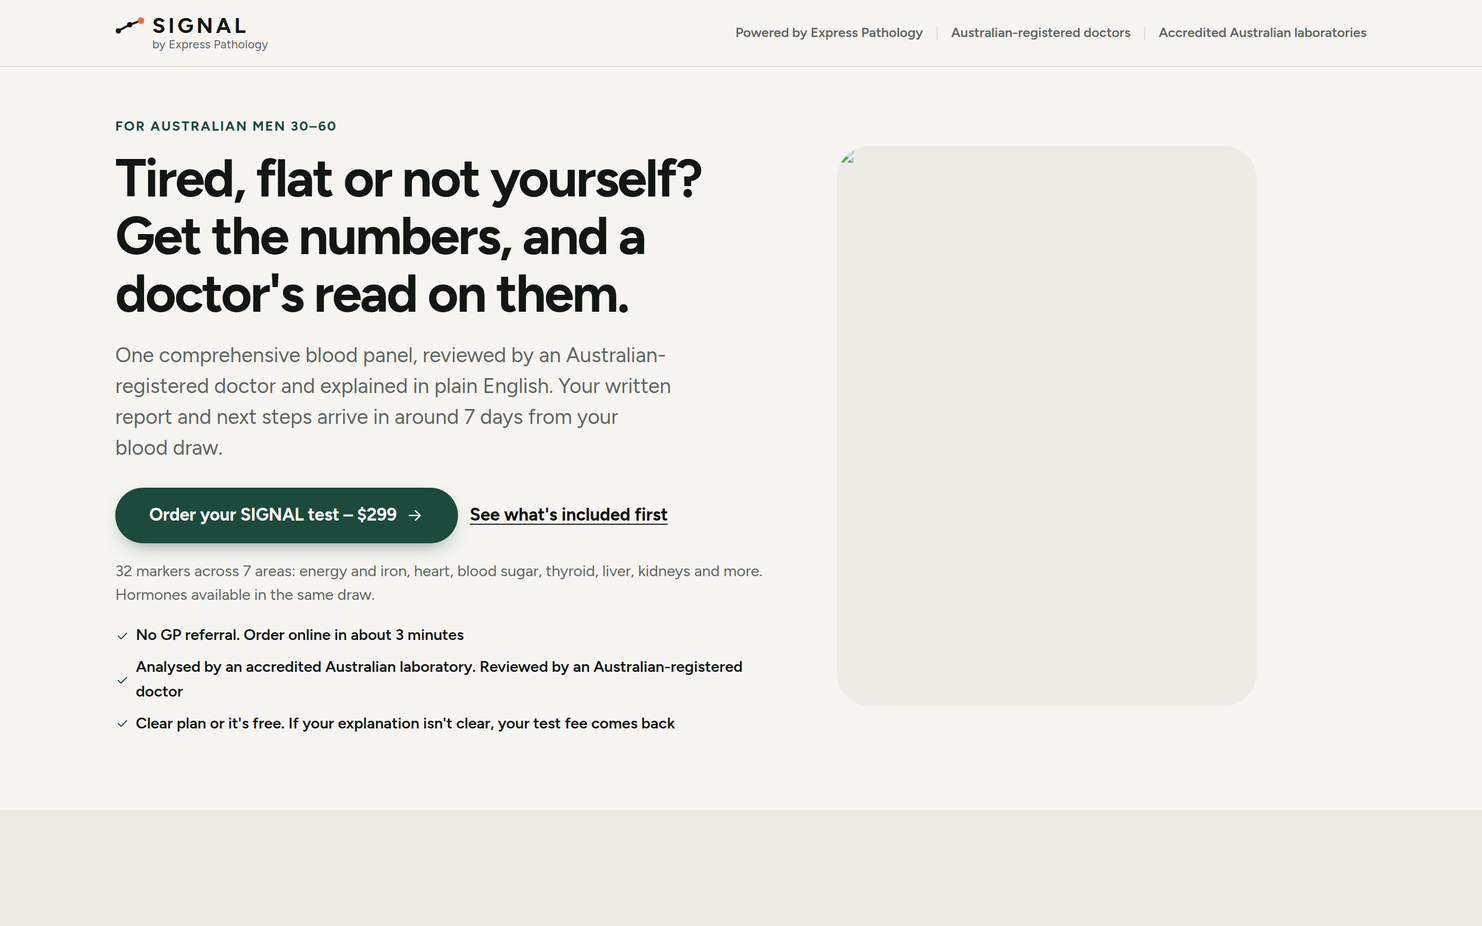
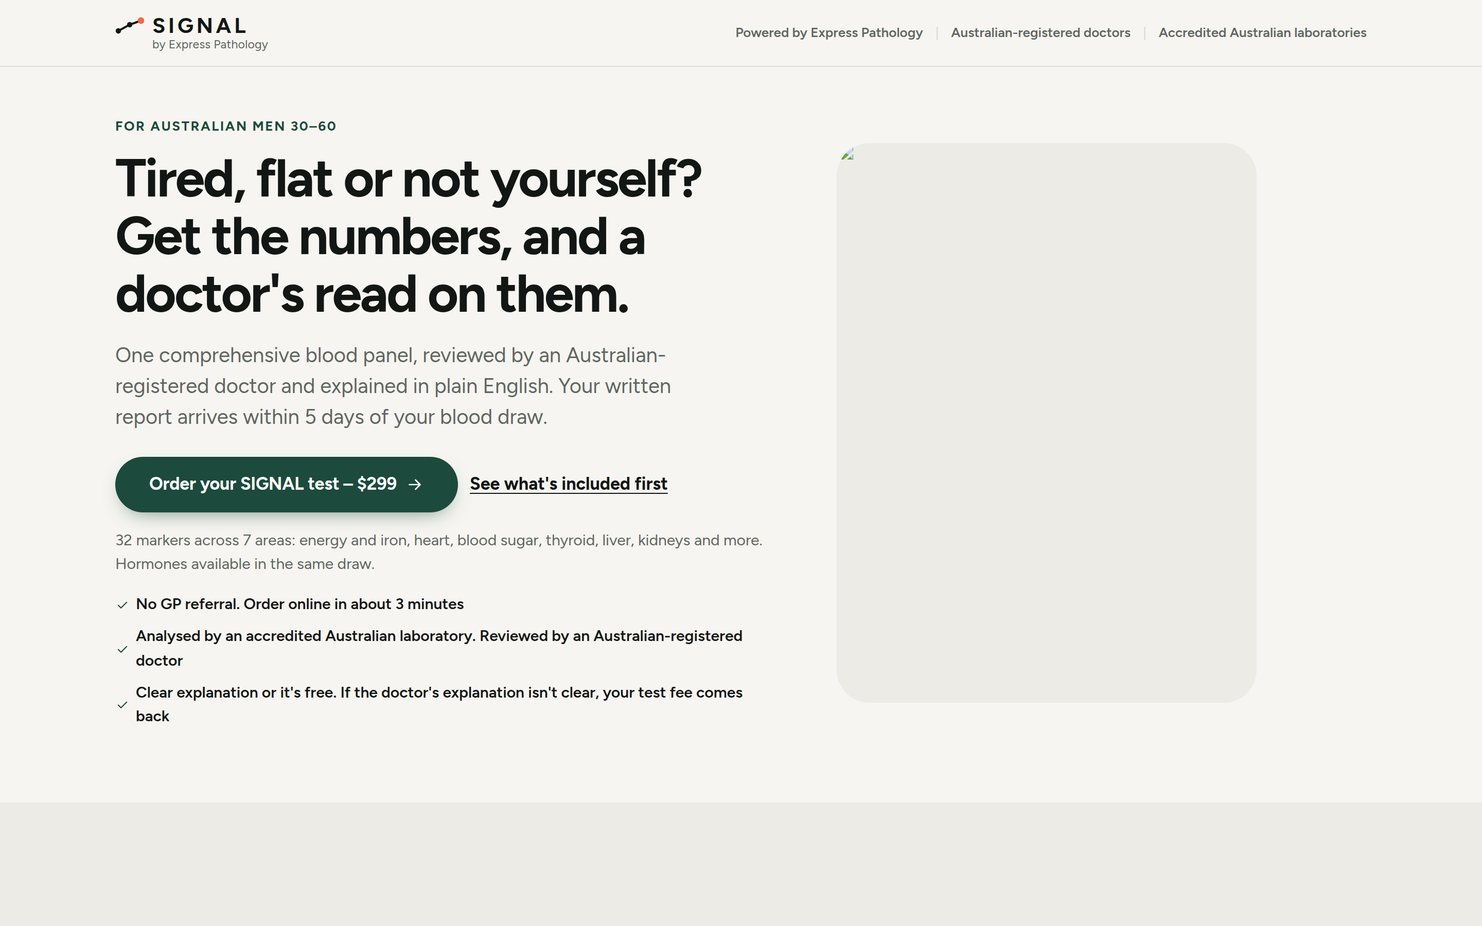
Promise only what is delivered: a clear written explanation, within 5 days
The doctor's review produces a written explanation of the results, not a
plan or next steps, and reports go out within 5 days of collection, not
around 7. Every customer-facing line now says exactly that: /men hero,
what-you-get, steps, plans, guarantee and FAQ; the illustrative report
caption; the journey timing; the trust bar; the confirmation email; the
terms (service description, turnaround, guarantee clause). The guarantee
is now "Clear Explanation or It's Free" and states that it concerns the
clarity of the explanation only, not health, results or treatment.

Claude-Session: https://claude.ai/code/session_01CjgrVakohwrtTz92CBzn2N

Changed region(s): [[0.0625, 0.4356, 0.5, 0.8089]]

diff --git a/src/config/funnel/men.ts b/src/config/funnel/men.ts
@@ -39,7 +39,7 @@ export interface PlanCard {
 
 export const menFunnel = {
   slug: "men",
-  seo: { title: "A doctor-reviewed blood panel for men, explained in plain English | SIGNAL", description: "One visit, one comprehensive panel, reviewed by an Australian-registered doctor with a plain-English report and next steps in around 7 days. {price}, no GP referral." },
+  seo: { title: "A doctor-reviewed blood panel for men, explained in plain English | SIGNAL", description: "One visit, one comprehensive panel, reviewed by an Australian-registered doctor with a plain-English report within 5 days. {price}, no GP referral." },
 
   // 1. Above the fold
   trustStrip: [
@@ -50,25 +50,25 @@ export const menFunnel = {
   hero: {
     eyebrow: "For Australian men 30–60",
     headline: "Tired, flat or not yourself? Get the numbers, and a doctor's read on them.",
-    subheadline: "One comprehensive blood panel, reviewed by an Australian-registered doctor and explained in plain English. Your written report and next steps arrive in around 7 days from your blood draw.",
+    subheadline: "One comprehensive blood panel, reviewed by an Australian-registered doctor and explained in plain English. Your written report arrives within 5 days of your blood draw.",
     supporting: "{markers} markers across {buckets} areas: energy and iron, heart, blood sugar, thyroid, liver, kidneys and more. Hormones available in the same draw.",
     primaryCta: { label: "Order your SIGNAL test – {price}", href: "/checkout" },
     secondaryCta: { label: "See what's included first", href: "#panel" },
     miniTrust: [
       { text: "No GP referral. Order online in about 3 minutes", verified: true },
       { text: "Analysed by an accredited Australian laboratory. Reviewed by an Australian-registered doctor", verified: true },
-      { text: "Clear plan or it's free. If your explanation isn't clear, your test fee comes back", verified: true },
+      { text: "Clear explanation or it's free. If the doctor's explanation isn't clear, your test fee comes back", verified: true },
     ] as Claim[],
   },
 
   // 2. What you get
   included: {
     title: "What you actually get for {price}",
-    intro: "Not a printout of numbers. A proper panel, a doctor's eyes on it, and a written plan you can act on.",
+    intro: "Not a printout of numbers. A proper panel, a doctor's eyes on it, and a written explanation you can actually understand.",
     bullets: [
       { title: "One comprehensive blood panel", body: "{markers} markers covering energy and iron, heart and cholesterol, blood sugar, thyroid, liver and kidneys, electrolytes and minerals, and inflammation. Every marker is listed before you pay." },
       { title: "A doctor reviews the whole picture", body: "An Australian-registered doctor reads your results together, looking for patterns across markers, not just whether each number sits in a range." },
-      { title: "A written summary and next steps, in plain English", body: "What's in the expected range, what isn't, and what to do about it. If something needs follow-up with your GP or a specialist, the report says so. It's sent to you as a secure link and kept on file so your doctor can compare it next time." },
+      { title: "A written explanation, in plain English", body: "What's in the expected range, what isn't, and what each marker means for you. If something warrants follow-up with your GP or a specialist, the report says so. It's sent to you as a secure link and kept on file so your doctor can compare it next time." },
       { title: "Add depth in the same draw", body: "Hormones and drive, thyroid in depth, heart in depth, key nutrients, or training and recovery. From {addonsFrom}. One needle, no second visit." },
       { title: "Collection that fits around you", body: "Walk into any partner collection centre, no appointment needed. Or a mobile nurse at home or work where available, {homeVisit}." },
     ],
@@ -104,7 +104,7 @@ export const menFunnel = {
       { icon: "calendar", title: "Order online", body: "Pick your panel and any add-ons, pay securely. About 3 minutes." },
       { icon: "tube", title: "Get your blood drawn", body: "Take your request form and photo ID to any partner collection centre, or have a mobile nurse come to you where available. No referral paperwork." },
       { icon: "shield", title: "A doctor reviews your results", body: "An Australian-registered doctor checks the full picture for patterns and anything that needs attention." },
-      { icon: "chart", title: "Get your report and next steps", body: "Your results, the doctor's summary and a written plan, emailed as a secure link in around 7 days." },
+      { icon: "chart", title: "Get your report", body: "Your results and the doctor's written explanation, emailed as a secure link within 5 days." },
     ] as { icon: "calendar" | "tube" | "shield" | "chart"; title: string; body: string }[],
   },
 
@@ -115,7 +115,7 @@ export const menFunnel = {
     bestFor: [
       "Men 30–60 who feel tired, flat, low on drive or “not themselves”",
       "Men who want proper pathology numbers and a doctor's explanation, not guesswork from social media",
-      "Men happy to pay privately for clarity and a plan",
+      "Men happy to pay privately for clarity",
       "Men who'd rather know than wonder",
     ],
     notForTitle: "Not for",
@@ -145,7 +145,7 @@ export const menFunnel = {
   // 6. Pricing and options
   plans: {
     title: "Choose how you want to track your health",
-    intro: "Every option includes the full panel, the doctor's review and the written plan. You pay per test. No lock-ins.",
+    intro: "Every option includes the full panel, the doctor's review and the written explanation. You pay per test. No lock-ins.",
     cards: [
       {
         id: "one_time",
@@ -154,7 +154,7 @@ export const menFunnel = {
         priceSub: "one payment",
         tagline: "Ideal if you've never had a proper check.",
         bullets: [
-          { text: "Full panel, doctor review and written plan", verified: true },
+          { text: "Full panel, doctor review and written explanation", verified: true },
           { text: "Collection at a centre included", verified: true },
           { text: "Add-ons from {addonsFrom}", verified: true },
         ],
@@ -193,7 +193,7 @@ export const menFunnel = {
     ] as PlanCard[],
     compare: {
       rows: [
-        { label: "Panel + doctor review + written plan", values: ["Included", "Included", "Included"] },
+        { label: "Panel + doctor review + written explanation", values: ["Included", "Included", "Included"] },
         { label: "Charged per test, no lock-in", values: ["✓", "✓", "✓"] },
         { label: "Tests per year", values: ["1", "2", "4"] },
         { label: "Per-test price", values: ["{price}", "{track6Price}", "{track3Price}"] },
@@ -222,9 +222,9 @@ export const menFunnel = {
       ],
     },
     guarantee: {
-      title: "Clear Plan or It's Free",
-      body: "If you complete your blood draw and doctor review and feel you did not get either a clear explanation of your results, or specific next steps you can discuss with a doctor, email us within 7 days of receiving your report and we'll refund your {price} test fee in full.",
-      terms: "This guarantee is about the clarity of what you receive, not a promise about your health. One claim per order. Terms apply.",
+      title: "Clear Explanation or It's Free",
+      body: "Complete your blood draw and doctor review. If you feel the doctor's written explanation of your results was not clear, email us within 7 days of receiving your report and we'll refund your {price} test fee in full.",
+      terms: "This guarantee is about the clarity of the explanation only. It is not a promise about your health, your results or any treatment. One claim per order. Terms apply.",
       verified: true,
     },
   },
@@ -235,9 +235,9 @@ export const menFunnel = {
     items: [
       { q: "Do I need a GP referral?", a: "No. SIGNAL is a private service you order directly. We arrange the pathology request." },
       { q: "Is this covered by Medicare or private health?", a: "No. It isn't billed to Medicare, and most health funds don't cover it. You pay for it yourself, and the price you see is the price you pay." },
-      { q: "What happens if my results are abnormal?", a: "Your report highlights anything outside the expected range and says what to do next. That may mean seeing your GP or a specialist. If something needs prompt attention, we contact you directly." },
+      { q: "What happens if my results are abnormal?", a: "Your report highlights anything outside the expected range and explains what that marker means. Where follow-up with your GP or a specialist is warranted, the report says so. If something needs prompt attention, we contact you directly." },
       { q: "Will I definitely get medication?", a: "No. SIGNAL is a testing, review and planning service. We never promise medication. Any treatment is only considered separately, by a doctor, and only if it's clinically appropriate." },
-      { q: "How long from blood draw to results?", a: "Around 7 days. We email you the moment your report and the doctor's review are ready." },
+      { q: "How long from blood draw to results?", a: "Within 5 days. We email you the moment your report and the doctor's review are ready." },
       { q: "Where do I go for my blood draw?", a: "Any partner collection centre near you, no appointment needed. Bring your request form and photo ID. In some areas a mobile nurse can come to your home or work for {homeVisit}." },
       { q: "Is this a replacement for my GP?", a: "No. SIGNAL gives you proper numbers and a doctor's explanation to act on. Your GP is still your GP, and your report is written so you can take it to them." },
       { q: "Is this suitable for women?", a: "Yes. The SIGNAL Test is the same comprehensive panel for everyone, and the Hormones+ add-on covers markers relevant to women as well as men. This page is written for men because that's who we're starting with." },
@@ -247,7 +247,7 @@ export const menFunnel = {
   // 9. Close
   close: {
     headline: "Ready to stop guessing and see what's really going on?",
-    sub: "Order your SIGNAL test today. Your doctor-reviewed report and next steps arrive in around 7 days.",
+    sub: "Order your SIGNAL test today. Your doctor-reviewed report arrives within 5 days of your blood draw.",
     cta: { label: "Order your SIGNAL test – {price}", href: "/checkout" },
   },
 };

diff --git a/src/config/legal/terms.ts b/src/config/legal/terms.ts
@@ -19,7 +19,7 @@ export const terms: LegalDocument = {
   intro: `These terms govern your purchase and use of the SIGNAL Test and related services from ${e.legalName} (ABN ${e.abn}), trading as ${e.tradingName} ("we", "us"). By placing an order you agree to them. Please read them with our Privacy Policy and, if you choose Automatic Retesting, the Retesting Terms.`,
   sections: [
     { id: "service", title: "1. What SIGNAL is", body: [
-      "SIGNAL is a self-requested pathology testing service. When you order, we arrange a pathology request for the markers in your chosen configuration, your sample is collected at a partner collection centre or by a mobile collector, it is analysed by an accredited Australian pathology laboratory, and your results are reviewed by an Australian-registered medical practitioner who prepares a plain-English report and a written plan for what to do next.",
+      "SIGNAL is a self-requested pathology testing service. When you order, we arrange a pathology request for the markers in your chosen configuration, your sample is collected at a partner collection centre or by a mobile collector, it is analysed by an accredited Australian pathology laboratory, and your results are reviewed by an Australian-registered medical practitioner who prepares a plain-English written explanation of your results.",
       "SIGNAL is not a substitute for your general practitioner or for emergency care. It does not diagnose or treat any condition, and a report is not a consultation or a prescription. If you are unwell, or if your report says a result needs prompt attention, see a doctor. In an emergency call 000.",
     ]},
     { id: "eligibility", title: "2. Who can order", body: [
@@ -35,7 +35,7 @@ export const terms: LegalDocument = {
       "Please bring photo ID. Follow any preparation instructions in your booking (for example fasting). If you miss a booking or cancel with less than the notice stated in your booking confirmation, a rebooking fee may apply as stated there.",
     ]},
     { id: "results", title: "5. Results, review and timing", body: [
-      "Most results and the doctor's review are sent to your email address as a secure link within around 7 days of collection. Occasionally a laboratory needs longer or must recollect a sample; we will tell you if that happens and there is no extra charge for a recollection the laboratory requests.",
+      "Most results and the doctor's review are sent to your email address as a secure link within 5 days of collection. Occasionally a laboratory needs longer or must recollect a sample; we will tell you if that happens and there is no extra charge for a recollection the laboratory requests.",
       "A laboratory result is a measurement at a point in time. Reference ranges are population-based and a result outside a range does not by itself mean something is wrong, nor does a result within a range guarantee that nothing is. The reviewing doctor's report is general guidance based on your results and the information you supplied; it is not a diagnosis and does not establish an ongoing treating relationship.",
       "If a result requires urgent attention we will contact you using the details on your order. Keep them current.",
     ]},
@@ -43,8 +43,8 @@ export const terms: LegalDocument = {
       "You may cancel for a full refund at any time before your blood is collected by emailing us. After collection the laboratory work has begun and the order can no longer be cancelled, except under the guarantee below or your rights under the Australian Consumer Law.",
       "Add-ons can be added or removed before payment. To change add-ons after payment but before collection, email us and we will adjust the order and the amount paid.",
     ]},
-    { id: "guarantee", title: "7. Clear Plan or It's Free guarantee", body: [
-      `If, after your blood draw and the doctor's review, you feel you did not receive a clear explanation of your results or a clear plan for what to do next, email ${e.supportEmail} within 7 days of your report being released and we will refund the ${price} test fee in full. The guarantee covers the SIGNAL Test fee; add-ons and collection fees are refunded if you cancel before collection under section 6. One claim per order. This guarantee is in addition to, and does not limit, your rights under the Australian Consumer Law.`,
+    { id: "guarantee", title: "7. Clear Explanation or It's Free guarantee", body: [
+      `If, after your blood draw and the doctor's review, you feel the written explanation of your results was not clear, email ${e.supportEmail} within 7 days of your report being released and we will refund the ${price} test fee in full. The guarantee covers the SIGNAL Test fee; add-ons and collection fees are refunded if you cancel before collection under section 6. One claim per order. The guarantee concerns the clarity of the explanation only; it is not a promise about your health, your results or any treatment. This guarantee is in addition to, and does not limit, your rights under the Australian Consumer Law.`,
     ]},
     { id: "retesting", title: "8. Automatic Retesting", body: [
       `Automatic Retesting is optional and is offered after your first purchase. It uses recurring billing. If you choose it, the Retesting Terms apply in addition to these terms, including the refund of the plan discount against your first order, the recurring charge for each future test, the reminder we send ${postPurchaseOffer.reminderDaysBefore} days before each charge, and your right to change, pause or cancel at any time.`,

diff --git a/src/config/journey.ts b/src/config/journey.ts
@@ -18,7 +18,7 @@ export const journey: JourneyStep[] = [
   { id: "pay", title: "Choose and pay", body: "Pick your SIGNAL and any add-ons. Pay by card, Apple Pay or Google Pay. No account needed first.", timing: "Today", timingStatus: "verified" },
   { id: "book", title: "Get your request form", body: "It's emailed to you straight away. Take it to any participating collection centre, no appointment needed. If you chose a home or workplace visit, we call you to arrange a time.", timing: "Straight after payment", timingStatus: "verified" },
   { id: "collect", title: "Get collected", body: "Bring photo ID and your request form. A qualified collector takes one sample. A few minutes, then get on with your day.", timing: "At your chosen time", timingStatus: "verified" },
-  { id: "results", title: "Results by email", body: "Reviewed by a doctor before you see them, every marker explained in plain language, sent as a secure link.", timing: "Around 7 days after collection", timingStatus: "verified" },
+  { id: "results", title: "Results by email", body: "Reviewed by a doctor before you see them, every marker explained in plain language, sent as a secure link.", timing: "Within 5 days of collection", timingStatus: "verified" },
   { id: "retest", title: "Retest and track", body: "Book a retest any time, or set up Automatic Retesting and watch what changes.", timing: "When you're ready", timingStatus: "verified" },
 ];
 

diff --git a/tests/email.test.ts b/tests/email.test.ts
@@ -7,7 +7,7 @@ const base = { reference: "SIG-TEST0001", orderId: "pi_x", orderUrl: "https://si
 test("centre confirmation: walk-in instructions, form attached, no booking promise", () => {
   const m = orderConfirmationEmail({ ...base, collectionMethodId: "centre" });
   assert.match(m.subject, /request form is attached/);
-  for (const s of ["Find a collection centre", "https://signaltest.com.au/collect", "4Cyte Pathology", "Australian Clinical Labs", "Any other laboratory will not accept your form", "Fast for 10 to 12 hours", "photo ID", "already paid for", "Around 7 days", "02 9545 2940", "SIG-TEST0001", "$299", "Automatic Retesting"]) assert.ok(m.text.includes(s) && m.html.includes(s.replace(/'/g, "&#39;").split("'")[0]!), s);
+  for (const s of ["Find a collection centre", "https://signaltest.com.au/collect", "4Cyte Pathology", "Australian Clinical Labs", "Any other laboratory will not accept your form", "Fast for 10 to 12 hours", "photo ID", "already paid for", "Within 5 days", "02 9545 2940", "SIG-TEST0001", "$299", "Automatic Retesting"]) assert.ok(m.text.includes(s) && m.html.includes(s.replace(/'/g, "&#39;").split("'")[0]!), s);
   for (const banned of ["booking link", "dashboard", "We'll call you"]) assert.ok(!m.text.includes(banned), banned);
 });
 

diff --git a/src/config/trust.ts b/src/config/trust.ts
@@ -16,7 +16,7 @@ export const trustClaims: TrustClaim[] = [
   { id: "lab", icon: "tube", text: "Analysed by accredited Australian pathology laboratories", status: "verified", verifiedBy: "Director, 2 Oct 2026" },
   { id: "review", icon: "shield", text: "Results reviewed by an Australian-registered doctor before you see them", status: "verified", verifiedBy: "Director, 2 Oct 2026" },
   { id: "collection", icon: "home", text: "Collected at a centre or at home, where available", status: "verified", verifiedBy: "Director, 2 Oct 2026" },
-  { id: "turnaround", icon: "calendar", text: "Results in around 7 days", status: "verified", verifiedBy: "Director, 2 Oct 2026" },
+  { id: "turnaround", icon: "calendar", text: "Results within 5 days", status: "verified", verifiedBy: "Director, 2 Oct 2026" },
   { id: "express", icon: "pin", text: "By Express Pathology", status: "verified", verifiedBy: "Brand fact" },
 ];
 

diff --git a/src/app/men/page.tsx b/src/app/men/page.tsx
@@ -121,7 +121,7 @@ export default function MenFunnelPage() {
                   <TrendCard key={m.markerId} name={getBiomarker(m.markerId).name} unit={m.unit} previous={m.previous} current={m.current} direction={m.direction} note={m.note} />
                 ))}
               </div>
-              <p className={styles.reportPlan}><strong>Your plan.</strong> Every marker explained in plain English, what's worth acting on, and what to do next.</p>
+              <p className={styles.reportPlan}><strong>Your report.</strong> Every marker explained in plain English, with anything outside the expected range flagged for follow-up with your GP.</p>
               <figcaption className={styles.reportCaption}>Illustrative example only. Not real results.</figcaption>
             </figure>
           </Container>

diff --git a/src/config/email.ts b/src/config/email.ts
@@ -64,7 +64,7 @@ export const confirmationEmail = {
   },
   results: {
     title: "Your results",
-    body: "Around 7 days after your collection, an Australian-registered doctor reviews your results and we email you a secure link to your report and next steps. If anything needs prompt attention, we call you.",
+    body: "Within 5 days of your collection, an Australian-registered doctor reviews your results and we email you a secure link to your report: every result explained in plain English. If anything needs prompt attention, we call you.",
   },
   offer: {
     title: "Automatic Retesting: {headline}",

diff --git a/README.md b/README.md
@@ -159,7 +159,7 @@ Every public claim needs substantiation under Australian Consumer Law. `trustPoi
 | Product "promise", "is this you if…" and "what you walk away with" lines | Product pages (`config/products.ts`) | Understanding-only framing; marketing/legal to confirm none reads as symptom-to-diagnosis |
 | "Ten minutes, then get on with your day" (collection duration) | Product page, Why SIGNAL | TODO-VERIFY typical collection time with operations |
 | Add-on "For you if…" lines | /signal configurator, homepage add-ons (`config/addons.ts`) | Preference framing only; marketing/legal to confirm none reads as symptom-to-diagnosis |
-| Journey timings ("Straight after payment", "At your chosen time", "Around 7 days after collection") | /signal, /checkout, /order (`config/journey.ts`) | VERIFIED by the Director, 2 Oct 2026 |
+| Journey timings ("Straight after payment", "At your chosen time", "Within 5 days of collection") | /signal, /checkout, /order (`config/journey.ts`) | VERIFIED by the Director, 2 Oct 2026 |
 | "Pay by card, Apple Pay or Google Pay. No account needed first." | Journey step 1, checkout | True once Stripe Payment + Express Checkout Elements ship |
 | Checkout details: "Sex … as recorded at birth. Laboratories use it to apply the right reference ranges" | /checkout step 3 (`config/checkout-fields.ts`) | TODO-VERIFY wording with the clinical lead and the laboratory's request requirements |
 | Checkout minimum age (18+) | /checkout step 3 (`MIN_AGE_YEARS`) | DECISION: policy on under-18 self-pay testing; legal to confirm |
@@ -171,7 +171,7 @@ Every public claim needs substantiation under Australian Consumer Law. `trustPoi
 | Demo order (`/order/demo`, SIG-DEMO-0001, $349/$59/$49) | Previews only | Illustrative; production returns 404 |
 | Preview pricing ($349 / $59 / $49 …) | Everywhere, with a banner, when `NEXT_PUBLIC_PREVIEW_PRICING=1` | Placeholders for test payments only; the server refuses to create an order with them on Production |
 | "Your card details never touch our servers" | Checkout payment panel | True by construction (Stripe Payment Element); keep it that way |
-| **/men funnel page** claims (doctors, labs, 7 days, no referral, priority review and booking, at-home visit perk, guarantee, data storage) | /men (`config/funnel/men.ts`) | VERIFIED by the Director, 2 Oct 2026. Any edited or new line goes back to `verified: false` until re-confirmed |
+| **/men funnel page** claims (doctors, labs, 5 days, no referral, priority review and booking, at-home visit perk, guarantee, data storage) | /men (`config/funnel/men.ts`) | VERIFIED by the Director, 2 Oct 2026. Any edited or new line goes back to `verified: false` until re-confirmed |
 | "Clear Plan or It's Free" guarantee (full refund within 7 days if no clear explanation or plan) | /men hero, guarantee block | VERIFIED by the Director, 2 Oct 2026; terms stated in the block. TODO(legal): mirror the wording in /legal/terms |
 | Plan badges "Save 15% per test" / "Save 20% per test" | /men plans | Factual, derived from config. "Most popular" removed (ACL and AHPRA: no unsubstantiated claims) |
 | No testimonials on /men | /men trust facts section | AHPRA / National Law s133: advertising a regulated health service (doctor review) must not use testimonials. The section is factual only; `config/social-proof.ts` content is not rendered on this page |
